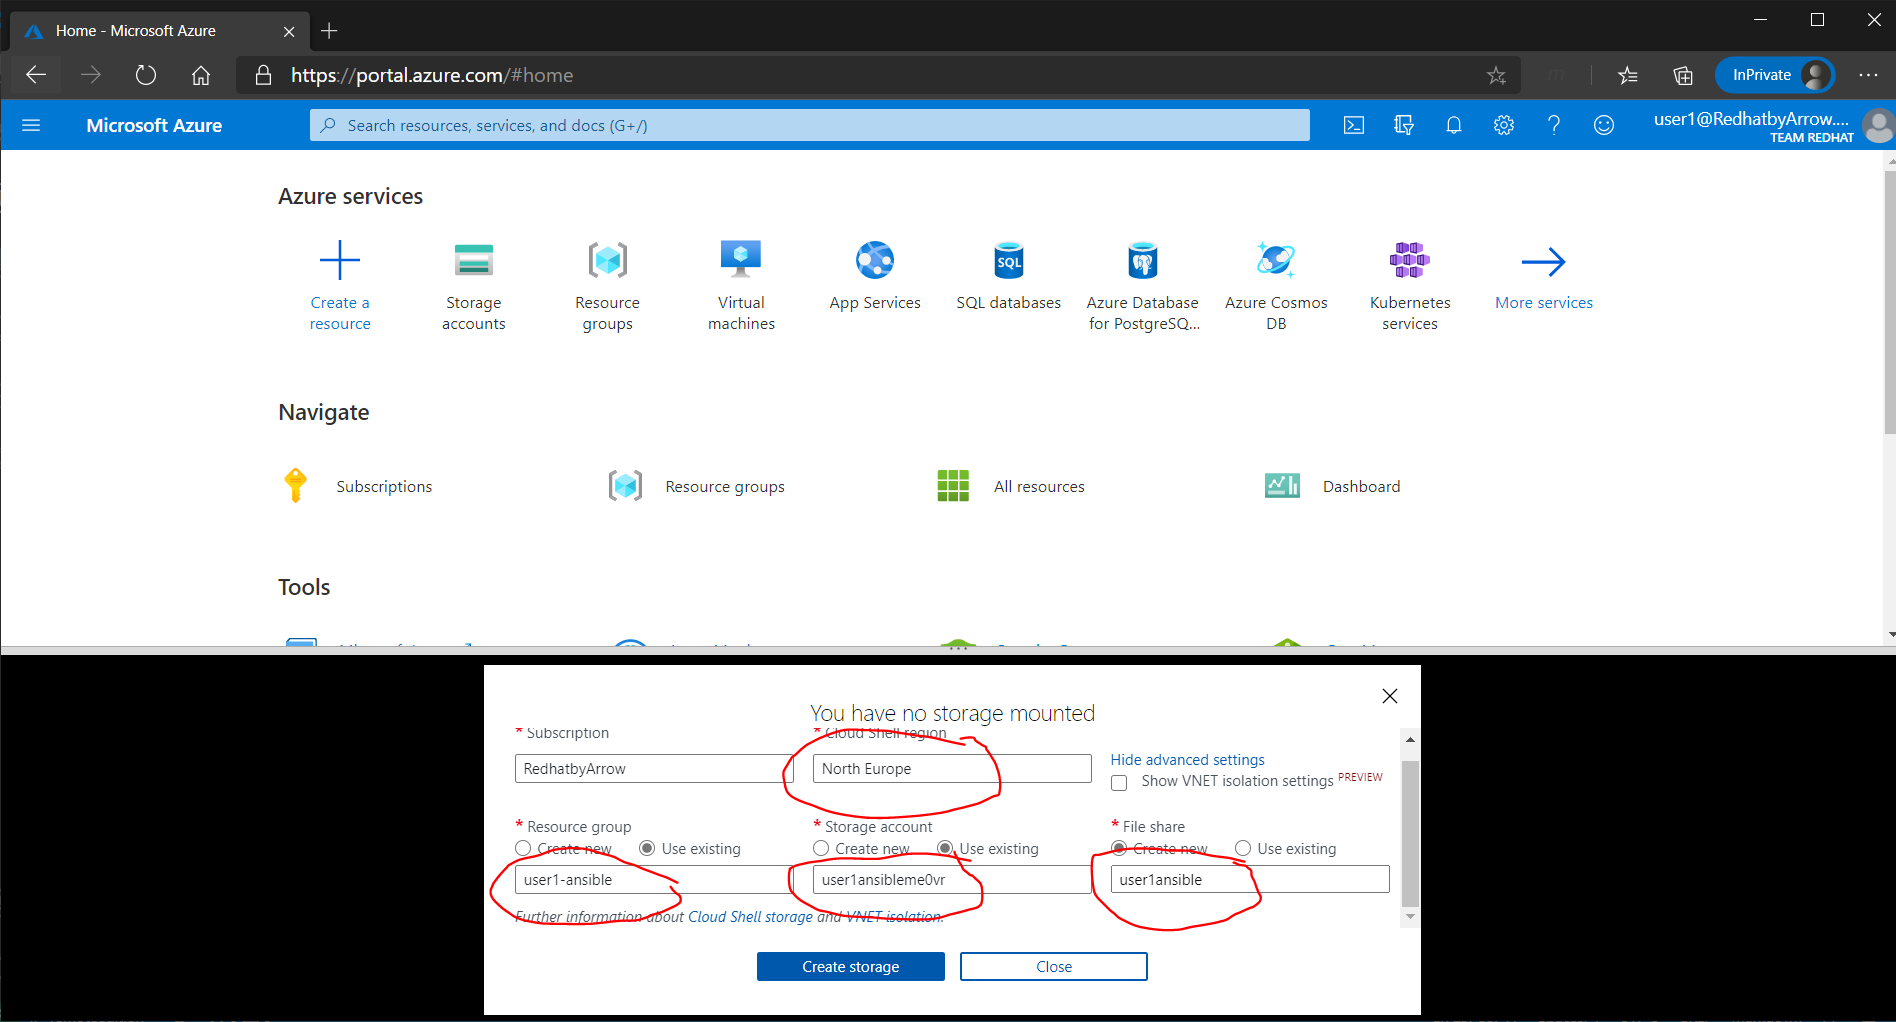
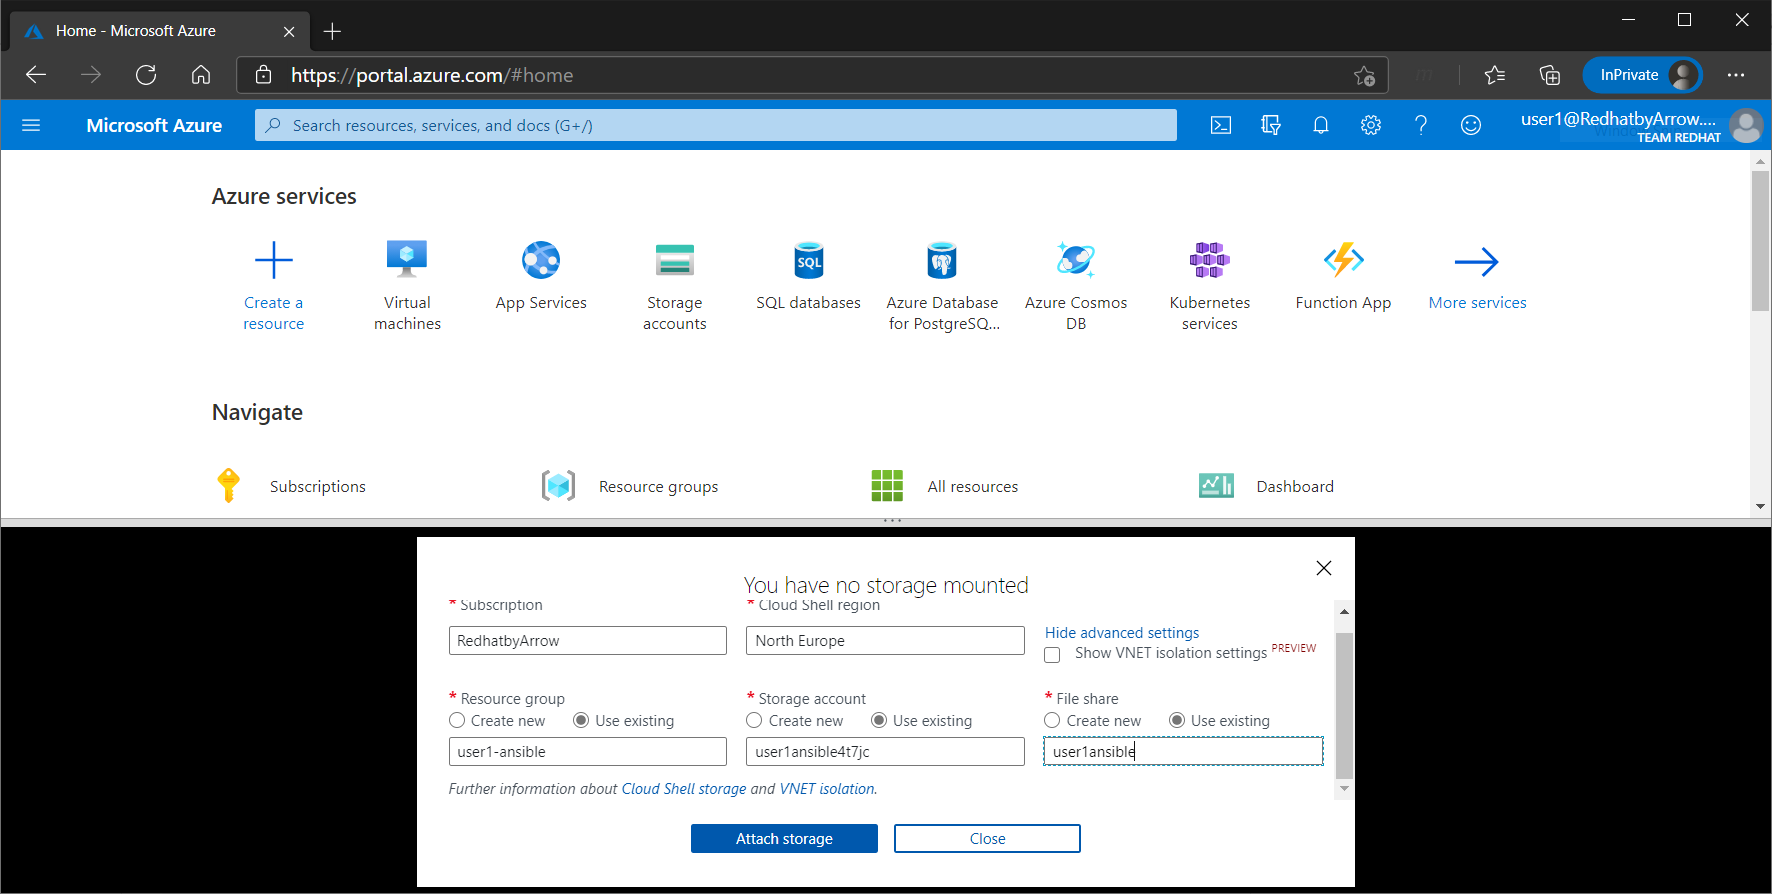
updates to deployment

diff --git a/prepare.md b/prepare.md
@@ -10,7 +10,7 @@ __Note:__ Run the browser in Incognito/Private mode to avoid issues with cashed 
 
 ![Alt text](pics/01_azure_login.png?raw=true "Azure login")
 
-In the top blue bar, click the "powershell" icon marked with red
+In the top blue bar, click the "cloudshell" icon marked with red
 
 ![Alt text](pics/05_start_cloud_shell.png?raw=true "Cloud Shell")
 
@@ -24,11 +24,11 @@ Select "Show advanced settings"
 
 Set Cloud Shell region to __"North Europe"__
 
-Resource group: Select Use existing and set it to your Resource group __userx-ansible__
+Resource group: Select Use existing and set it to your Resource group __userX-ansible__
 
 Storage account: Select Use existing your storage account will be selected, as you only have one
 
-File Share: Create new, give it same name as your storage account
+File Share: Select existing __userXansible__
 
 ![Alt text](pics/07_start_cloud_shell_advanced_set.png?raw=true "Cloud Shell advanced")
 
